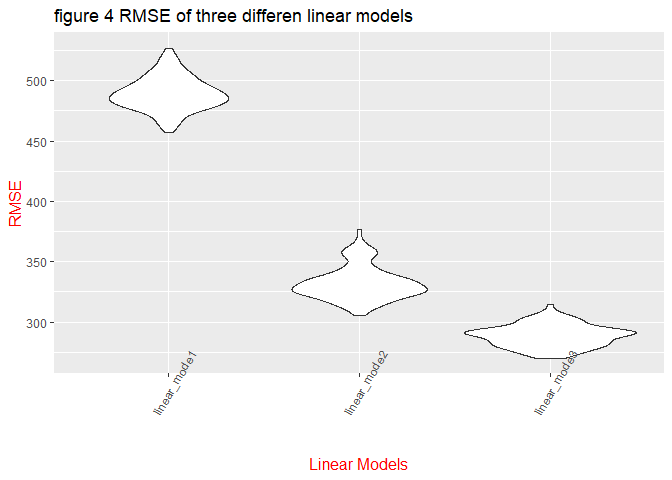
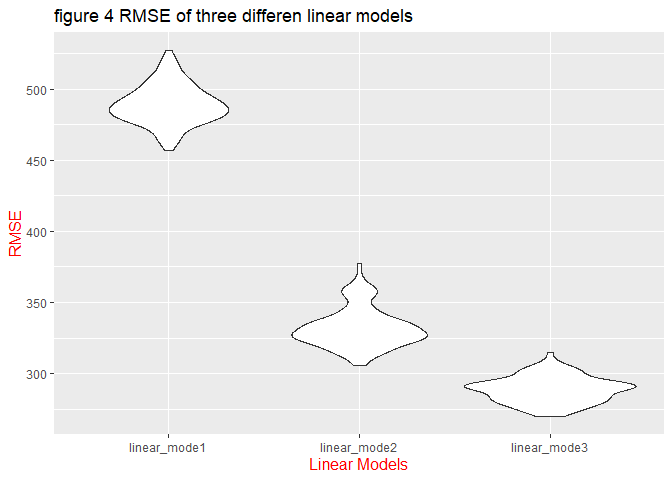
caculate the confidence interval

diff --git a/p8105_hw6_yh2736.md b/p8105_hw6_yh2736.md
@@ -213,8 +213,7 @@ cv_birth_weight %>%
     axis.title.x = element_text(size = 12, 
                                 color = "red"),
     axis.title.y = element_text(size = 12, 
-                                color = "red"),
-    axis.text.x = element_text(angle = 60)
+                                color = "red")
   ) +
   labs(
     title = "figure 4 RMSE of three differen linear models "
@@ -297,8 +296,7 @@ estimate_df %>%
     axis.title.x = element_text(size = 12, 
                                 color = "red"),
     axis.title.y = element_text(size = 12, 
-                                color = "red"),
-    axis.text.x = element_text(angle = 60)
+                                color = "red")
   ) +
   labs(
     title = "figure 5 Estimates distribution "
@@ -309,3 +307,35 @@ estimate_df %>%
 
 *From Figure 5, the range of beta0 is from 6.25 to 8.25, and the range
 of beta1 is (0.975, 1.100)*
+
+``` r
+###pull the r.squared value from glance_list
+r_squared_df <- bootstrap_weather_df %>% 
+  pull(glance_list) %>%
+  bind_rows() %>% 
+  janitor::clean_names() %>% 
+  mutate(
+    id = rep(1:5000)
+  ) %>% 
+  select(id, r_squared)
+
+
+estimate_df <- estimate_df %>% 
+  mutate(
+    log_beta0_mult_beta1 = log10(beta0 * beta1)
+  ) %>% 
+  left_join(., r_squared_df, by = "id")
+
+sd_log_beta0_mult_beta1 <- sd(estimate_df$log_beta0_mult_beta1, na.rm = TRUE)
+
+sd_r_squared <-  sd(estimate_df$r_squared, na.rm = TRUE)
+
+mean_log_beta0_mult_beta1 <- mean(estimate_df$log_beta0_mult_beta1, na.rm = TRUE)
+
+mean_r_squared <- mean(estimate_df$r_squared, na.rm = TRUE)
+```
+
+THe 95% confidence interval for r^2 is from 0.9114704 to 0.9110668.
+
+THe 95% confidence interval for log(β<sup>0∗β</sup>1) is from 0.874595
+to 0.8741171.
